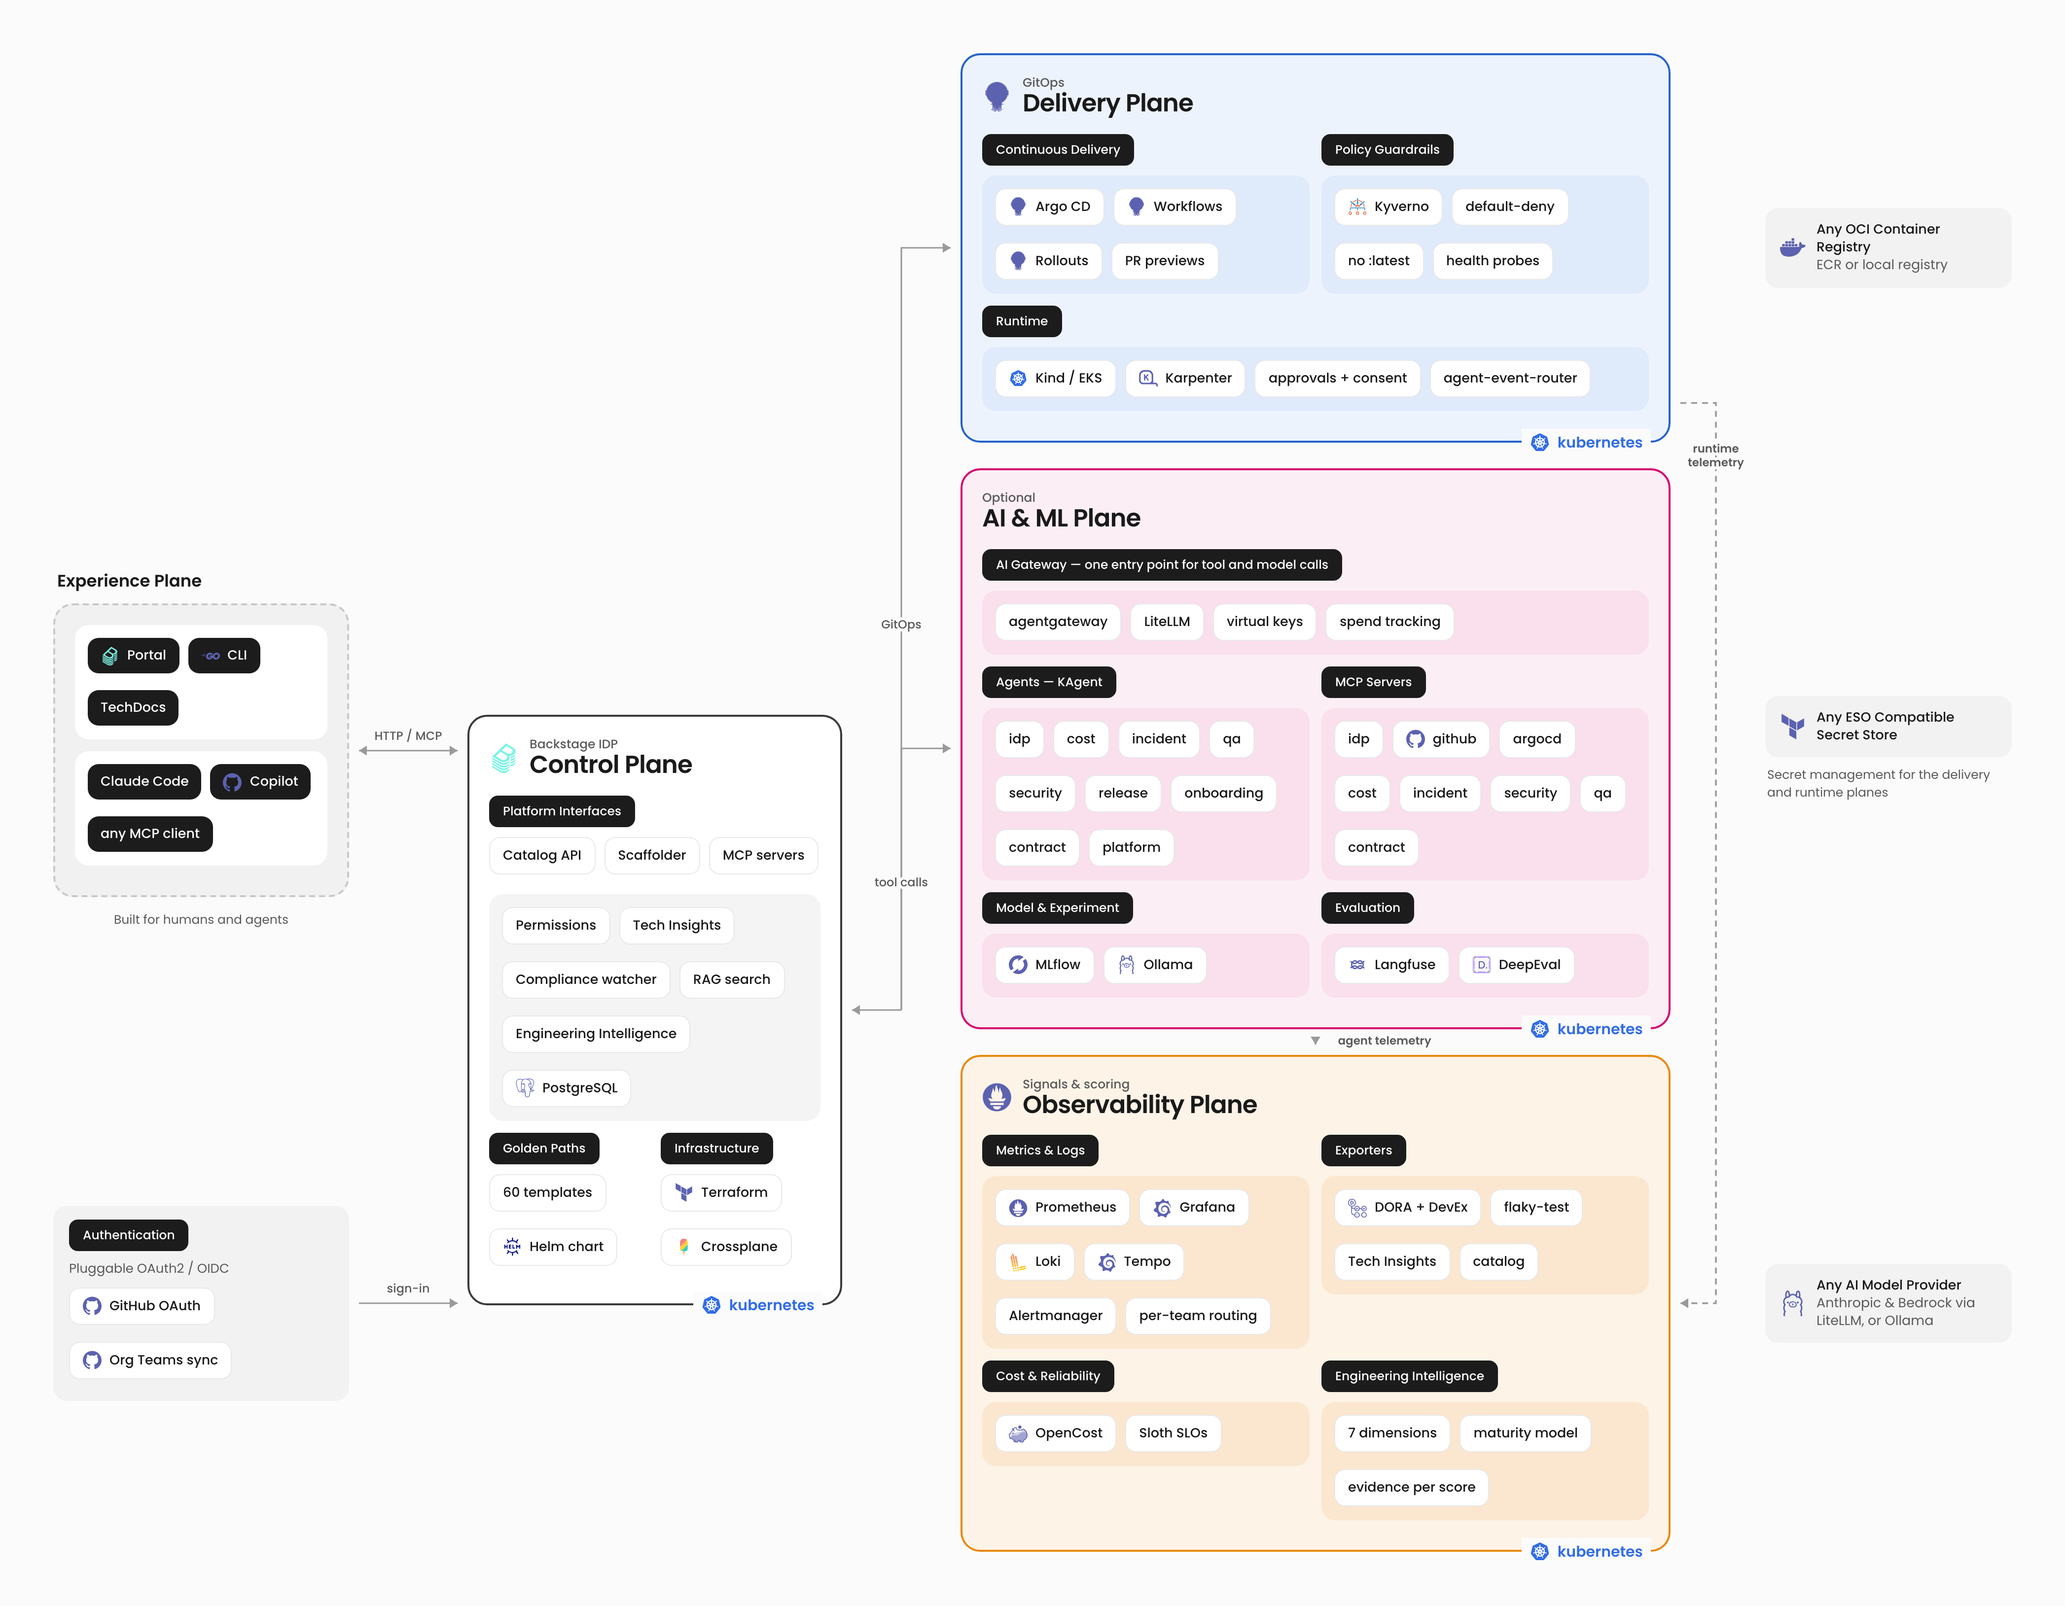
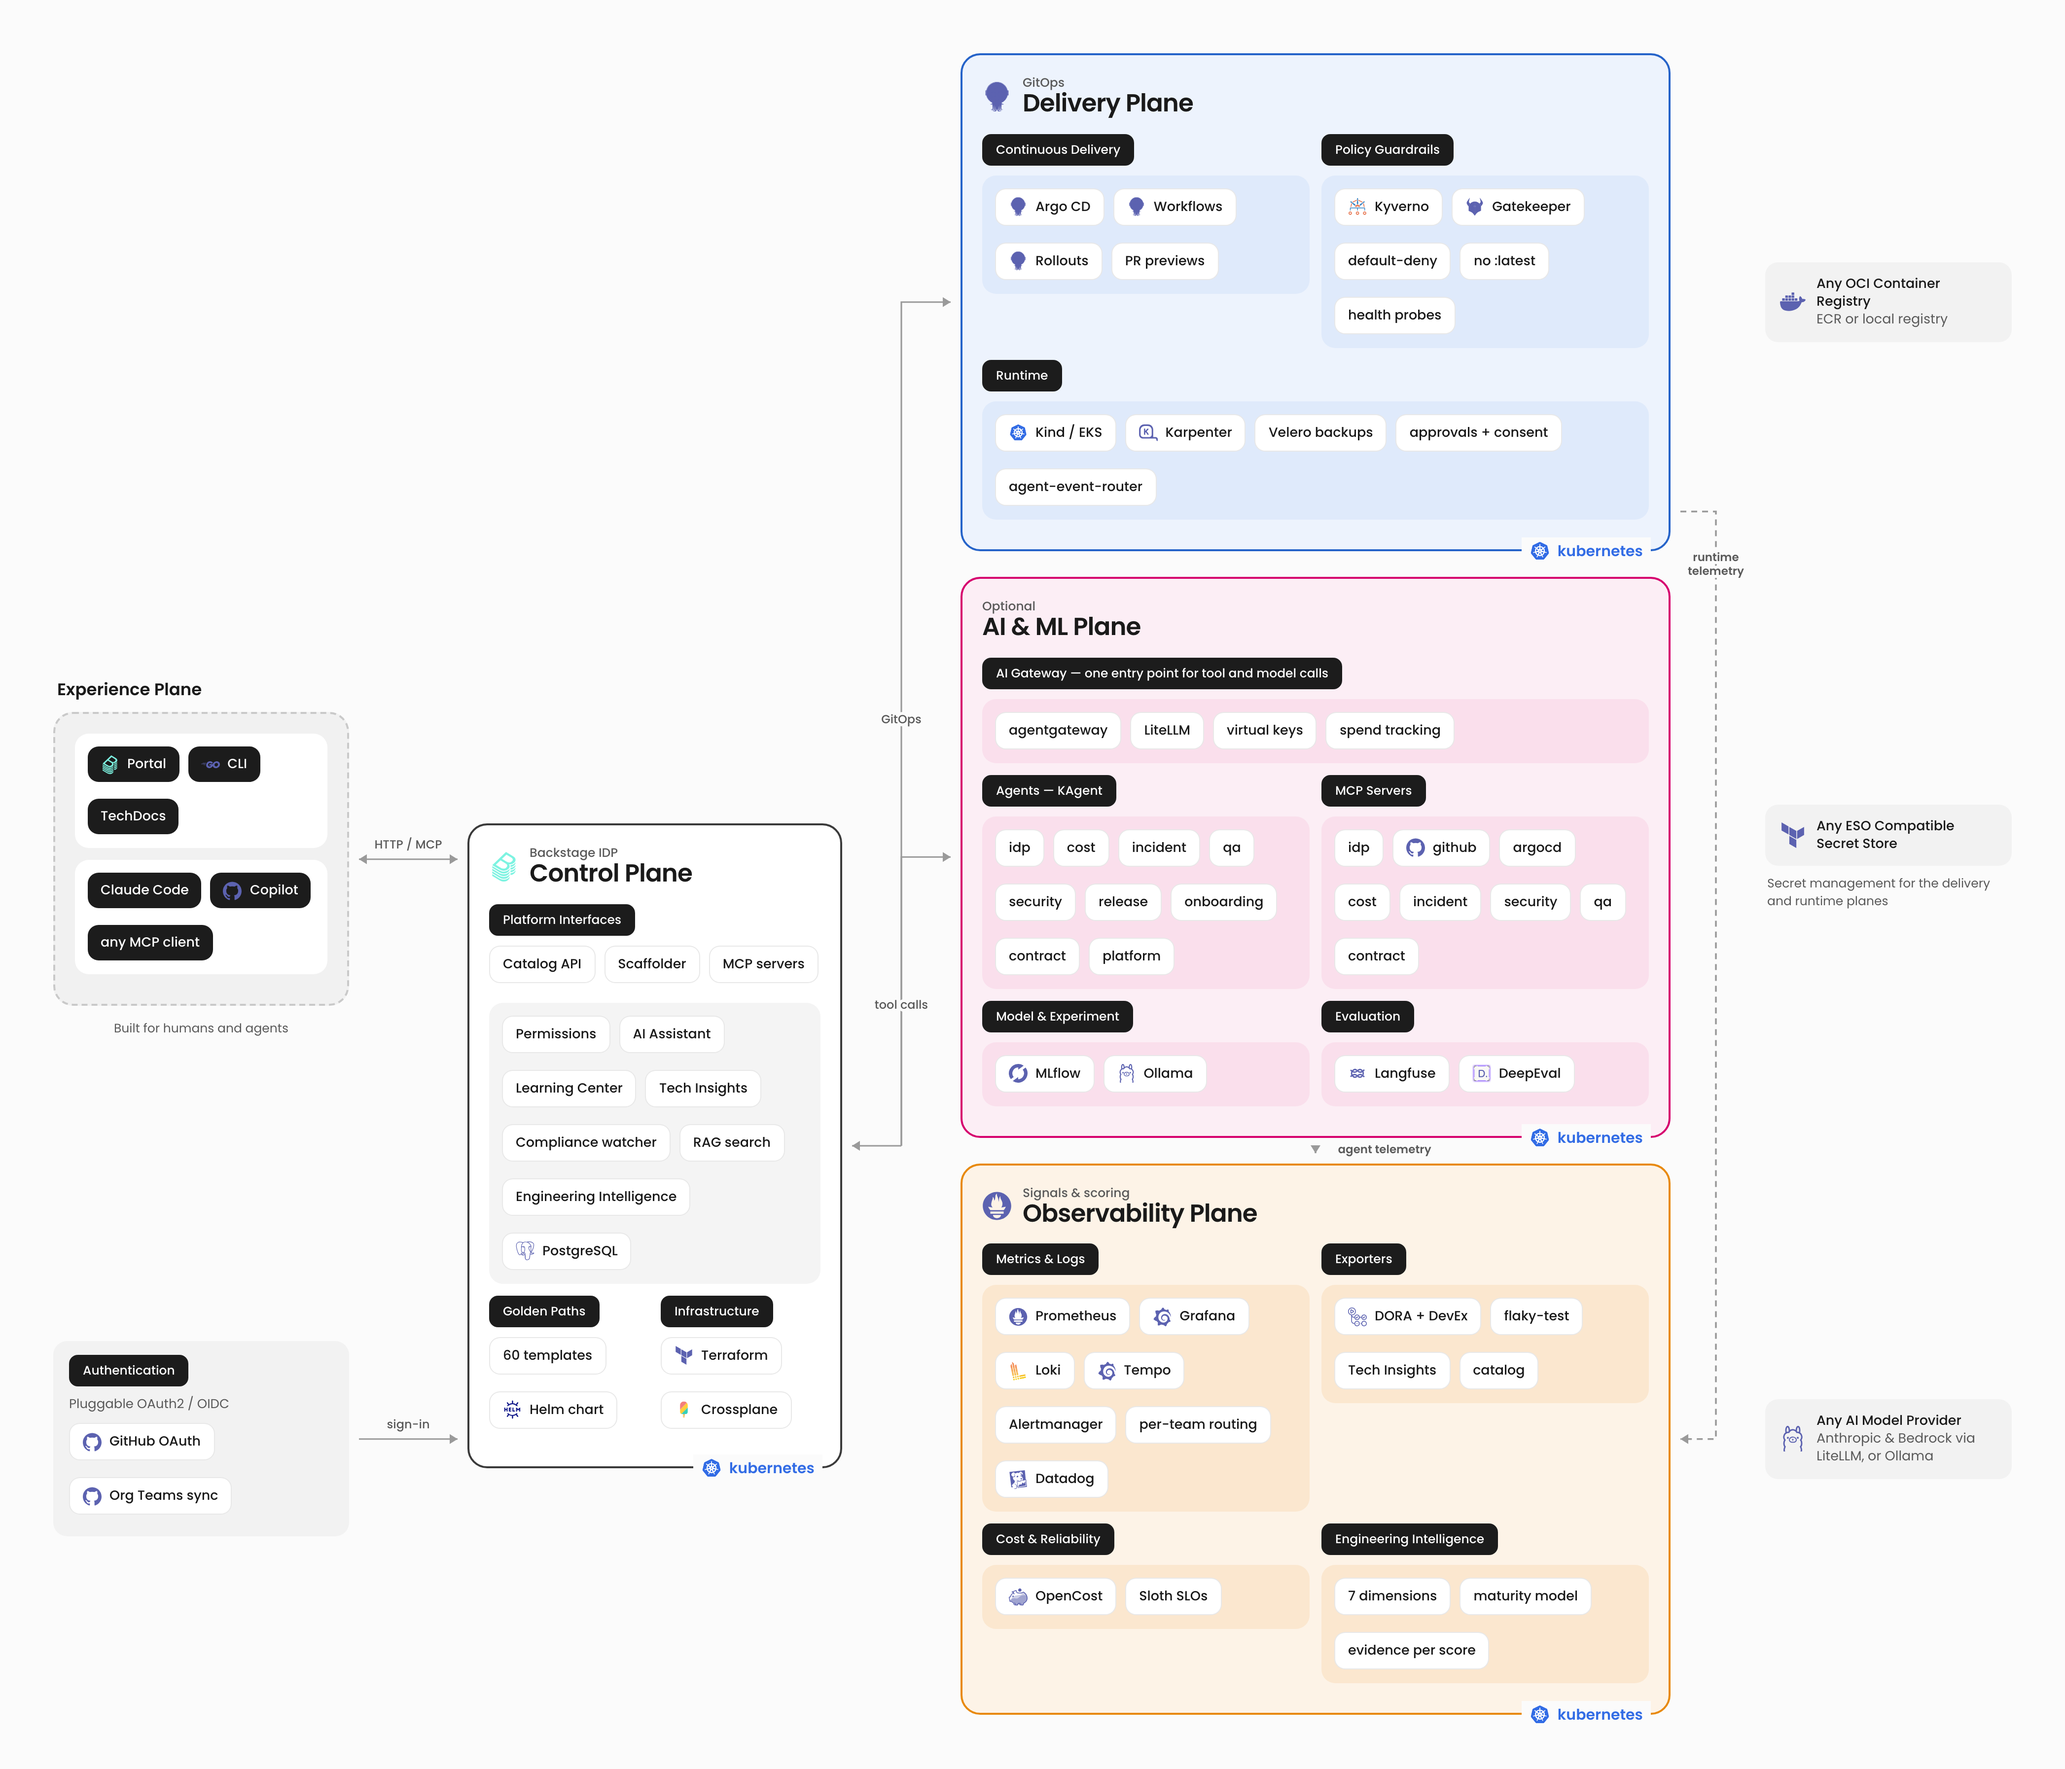
docs(diagram): show Gatekeeper, Velero, Datadog, AI Assistant and Learning Center
A sweep of what bootstrap actually installs and what the portal ships
turned up five components the planes diagram never showed:
- OPA Gatekeeper: installed next to Kyverno on both local and AWS
- Velero: cluster backups, on by default on AWS (--skip-velero to opt out)
- Datadog: Agent + APM integration on AWS when API keys are set
- AI Assistant and Learning Center: Backstage portal pages

LiteLLM was already shown, in the AI & ML plane's gateway row.
Adds the OPA (cncf/artwork) and Datadog (simple-icons) marks to the build.

diff --git a/docs/diagrams/platform-planes.html b/docs/diagrams/platform-planes.html
@@ -134,6 +134,8 @@
       <div class="module">
         <div class="row">
           <span class="card">Permissions</span>
+          <span class="card">AI Assistant</span>
+          <span class="card">Learning Center</span>
           <span class="card">Tech Insights</span>
           <span class="card">Compliance watcher</span>
           <span class="card">RAG search</span>
@@ -186,6 +188,7 @@
           <div class="module">
             <div class="row">
               <span class="card">{{kyverno}}Kyverno</span>
+              <span class="card">{{opa}}Gatekeeper</span>
               <span class="card">default-deny</span>
               <span class="card">no :latest</span>
               <span class="card">health probes</span>
@@ -198,6 +201,7 @@
         <div class="row">
           <span class="card">{{kubernetes}}Kind / EKS</span>
           <span class="card">{{karpenter}}Karpenter</span>
+          <span class="card">Velero backups</span>
           <span class="card">approvals + consent</span>
           <span class="card">agent-event-router</span>
         </div>
@@ -282,6 +286,7 @@
               <span class="card">{{si-grafana}}Tempo</span>
               <span class="card">Alertmanager</span>
               <span class="card">per-team routing</span>
+              <span class="card">{{si-datadog}}Datadog</span>
             </div>
           </div>
         </div>

diff --git a/docs/diagrams/build-platform-planes.py b/docs/diagrams/build-platform-planes.py
@@ -49,6 +49,7 @@ SOURCES = {
     "kyverno":       f"{CNCF}/kyverno/icon/color/kyverno-icon-color.svg",
     "helm":          f"{CNCF}/helm/icon/color/helm-icon-color.svg",
     "crossplane":    f"{CNCF}/crossplane/icon/color/crossplane-icon-color.svg",
+    "opa":           f"{CNCF}/open-policy-agent/icon/color/opa-icon-color.svg",
 
     "si-github":        f"{SIMPLE}/github.svg",
     "si-githubactions": f"{SIMPLE}/githubactions.svg",
@@ -59,6 +60,7 @@ SOURCES = {
     "si-mlflow":        f"{SIMPLE}/mlflow.svg",
     "si-ollama":        f"{SIMPLE}/ollama.svg",
     "si-docker":        f"{SIMPLE}/docker.svg",
+    "si-datadog":       f"{SIMPLE}/datadog.svg",
 
     "langfuse":  f"{GH}/langfuse/langfuse/main/web/public/icon.svg",
     "karpenter": f"{GH}/aws/karpenter-provider-aws/main/website/static/favicon.svg",
@@ -72,6 +74,7 @@ BRAND = {
     "si-grafana": "#F46800", "si-github": "#181717", "si-githubactions": "#2088FF",
     "si-terraform": "#844FBA", "si-postgresql": "#4169E1", "si-mlflow": "#0194E2",
     "si-ollama": "#000000", "si-go": "#00ADD8", "si-docker": "#2496ED",
+    "si-datadog": "#632CA6",
 }
 
 # Near-black wordmarks. On the black cards they would not be visible at all, so
